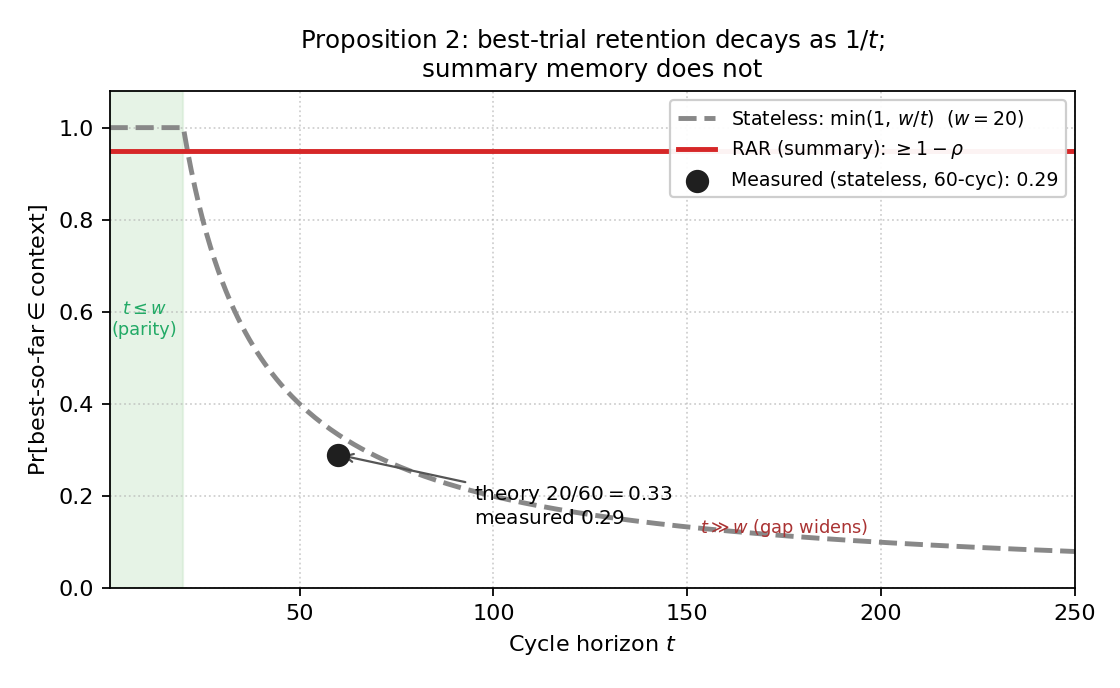
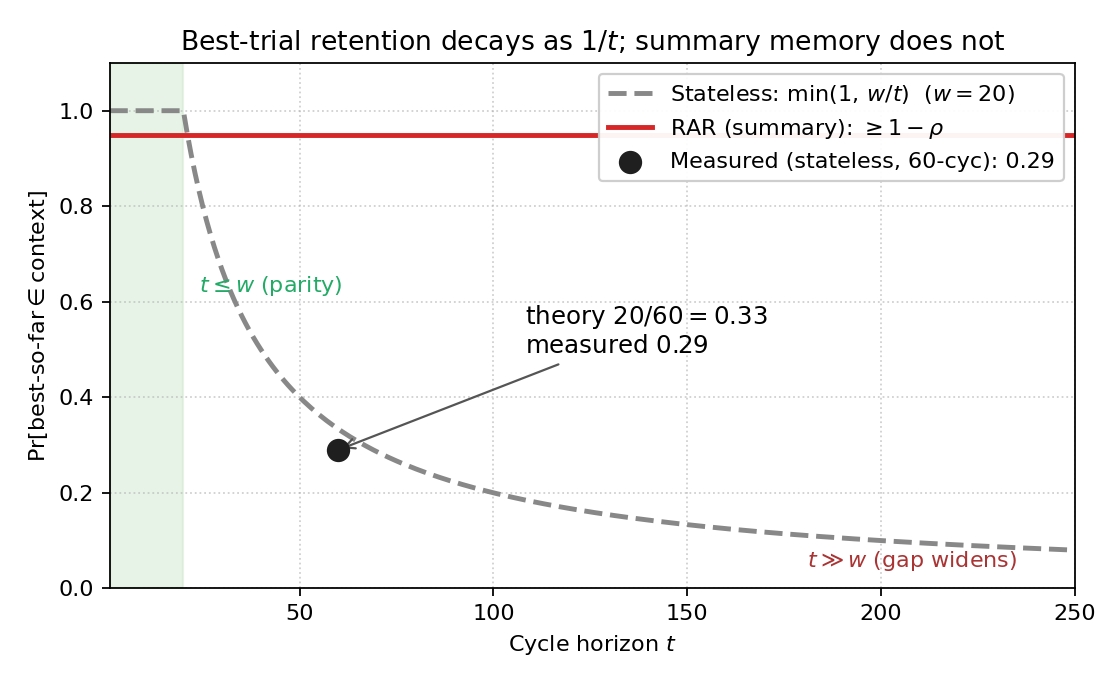
Fix retention figure: remove annotation/label overlaps + drop mismatched 'Proposition 2' from PNG title
The retention bound is Proposition 1 (it precedes the cost-equivalence proposition), but the
PNG title hardcoded 'Proposition 2' -- conflicting with the LaTeX caption's auto-numbered
\ref. Dropped the number from the PNG title (the caption names it). Moved the theory/measured
annotation into open space (was overlapping the curve and the t>>w label); separated the
parity/gap-widens labels. Larger fonts. Compiles clean (26pp, 0 undefined).

diff --git a/plot_retention.py b/plot_retention.py
@@ -21,19 +21,19 @@ ax.axhline(1 - rho, color="#d62728", lw=2.2,
 # measured point: stateless late-cycle best-retention ~29% at the 60-cycle campaign
 ax.scatter([60], [0.29], s=90, color="#1f1f1f", zorder=5,
            label="Measured (stateless, 60-cyc): 0.29")
-# annotation placed in the empty lower-left wedge, arrow up-right to the point
-ax.annotate("theory $20/60=0.33$\nmeasured $0.29$", xy=(60, 0.29), xytext=(95, 0.18),
-            fontsize=9, ha="left", va="center",
+# annotation in the open upper-centre area, arrow down to the measured point
+ax.annotate("theory $20/60 = 0.33$\nmeasured $0.29$", xy=(60, 0.29), xytext=(108, 0.54),
+            fontsize=11, ha="left", va="center",
             arrowprops=dict(arrowstyle="->", color="#555"))
 ax.axvspan(1, w, color="#cfe8cf", alpha=0.5)
-ax.text(w/2, 0.55, r"$t\leq w$" "\n(parity)", ha="center", fontsize=8, color="#2a6")
-ax.text(175, 0.12, r"$t\gg w$ (gap widens)", ha="center", fontsize=8, color="#a33")
+ax.text(w + 4, 0.62, r"$t\leq w$ (parity)", ha="left", fontsize=10, color="#2a6")
+ax.text(235, 0.045, r"$t\gg w$ (gap widens)", ha="right", fontsize=10, color="#a33")
 ax.set_xlabel("Cycle horizon $t$")
 ax.set_ylabel(r"$\Pr[\text{best-so-far} \in \text{context}]$")
-ax.set_ylim(0, 1.08); ax.set_xlim(1, 250)
-ax.set_title("Proposition 2: best-trial retention decays as $1/t$;\nsummary memory does not", fontsize=11)
+ax.set_ylim(0, 1.10); ax.set_xlim(1, 250)
+ax.set_title("Best-trial retention decays as $1/t$; summary memory does not", fontsize=12)
 ax.grid(True, ls=":", alpha=0.6)
-ax.legend(loc="upper right", fontsize=8.5, framealpha=0.95)
+ax.legend(loc="upper right", fontsize=10, framealpha=0.95)
 fig.tight_layout()
 out = os.path.join(ROOT, "fig_retention.png")
 fig.savefig(out, dpi=160)